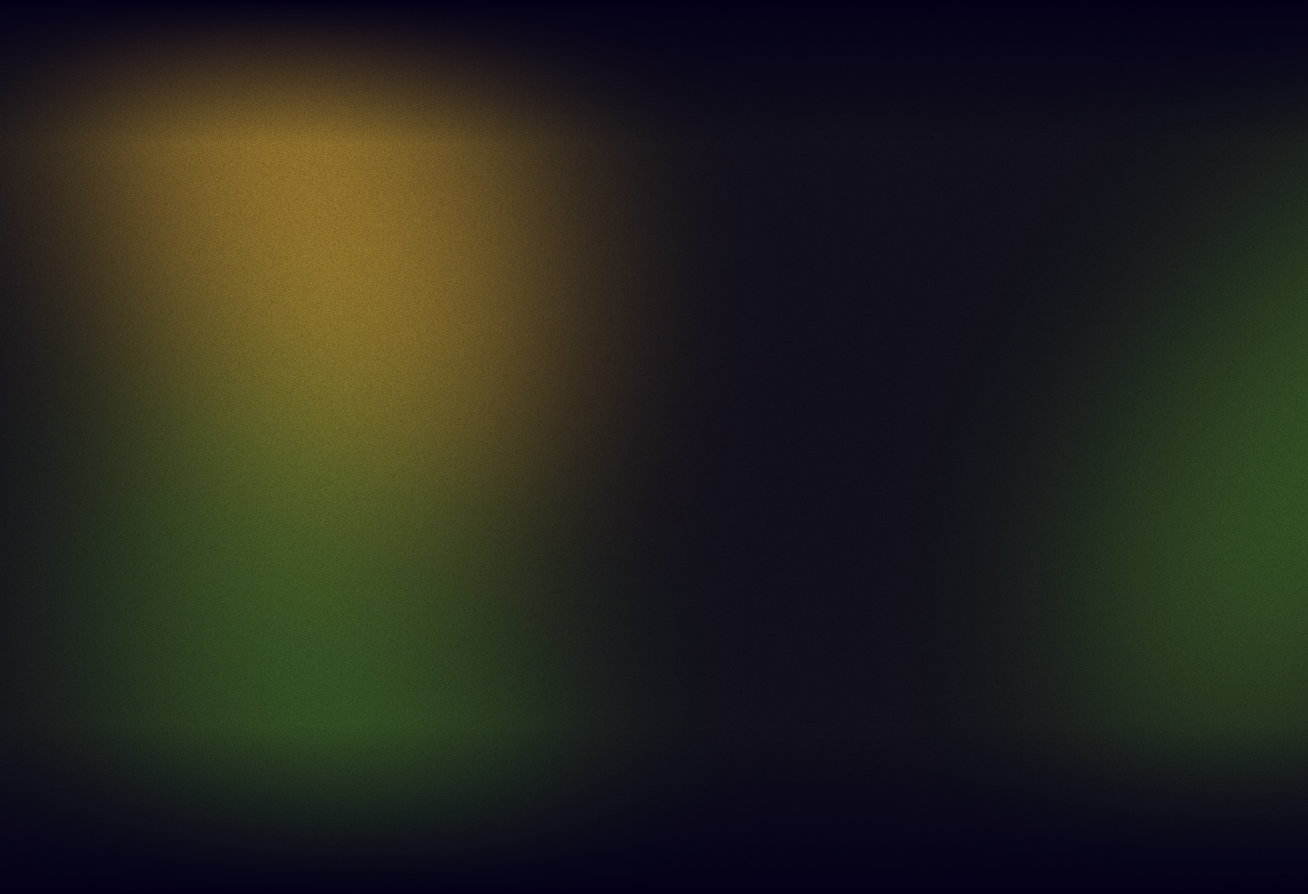
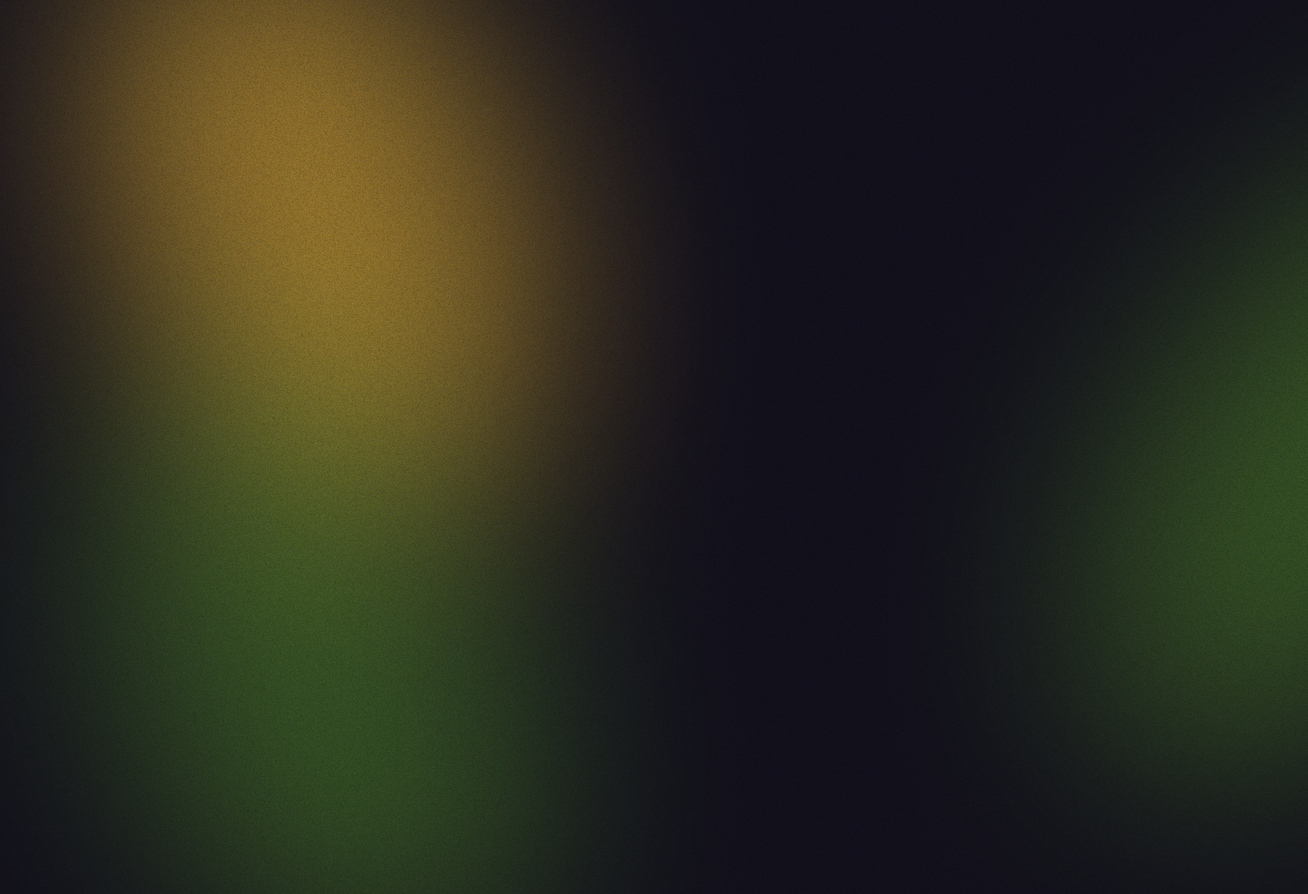
Pricing Complete and Testimonials started

Changed region(s): [[0.0625, 0.8743, 0.5, 1.0], [0.0, 0.0, 0.4688, 0.1561]]

diff --git a/src/components/Testimonials.vue b/src/components/Testimonials.vue
@@ -1,0 +1,57 @@
+<template>
+  <div class="d-flex flex-column testimonials-background justify-content-between">
+    <div class="rectangle-gradient-top"></div>
+    <div class="d-flex justify-content-start gap-1">
+      <h1 class="testimonials-text">Testimonials</h1>
+    </div>
+    <div class="rectangle-gradient-bottom"></div>
+  </div>
+</template>
+
+<script>
+export default {
+  name: 'TestimonialsComponent',
+}
+</script>
+
+<style>
+.testimonials-background {
+  background-image: url('../assets/TestimonialsBackground.png');
+  background-repeat: no-repeat;
+  width: 100%;
+  height: 1313px;
+}
+
+.testimonials-text {
+  font-weight: 800;
+  font-size: 187.859px;
+  line-height: 120%;
+  letter-spacing: 0.02em;
+  text-transform: capitalize;
+  background: linear-gradient(91.48deg, #f4b913 3.01%, #8df53a 96.12%);
+  -webkit-background-clip: text;
+  -webkit-text-fill-color: transparent;
+  background-clip: text;
+  transform: rotate(-90deg);
+}
+
+.rectangle-gradient-top {
+  background: linear-gradient(180deg, rgba(4, 0, 24, 0) 0%, #040018 100%);
+  transform: rotate(180deg);
+  width: 100%;
+  height: 214px;
+  z-index: 3;
+}
+
+.rectangle-gradient-bottom {
+  background: linear-gradient(180deg, rgba(4, 0, 24, 0) 0%, #040018 100%);
+  width: 100%;
+  height: 214px;
+  z-index: 3;
+}
+
+.testimonials-main-content {
+  padding-left: 215px;
+  z-index: 1;
+}
+</style>

diff --git a/src/App.vue b/src/App.vue
@@ -3,7 +3,8 @@
     <StartPage />
     <Landing />
     <PodPlatforms />
-    <PricingComponent />
+    <Pricing />
+    <Testimonials />
   </div>
 </template>
 
@@ -11,7 +12,8 @@
 import StartPage from "./components/StartPage.vue";
 import Landing from './components/Landing.vue';
 import PodPlatforms from "./components/PodPlatforms.vue";
-import PricingComponent from "./components/Pricing.vue";
+import Pricing from "./components/Pricing.vue";
+import Testimonials from "./components/Testimonials.vue";
 
 export default {
   name: 'App',
@@ -19,7 +21,8 @@ export default {
     StartPage,
     Landing,
     PodPlatforms,
-    PricingComponent,
+    Pricing,
+    Testimonials
   },
 }
 </script>

diff --git a/src/components/Pricing/PriceLabel.vue b/src/components/Pricing/PriceLabel.vue
@@ -104,6 +104,8 @@ export default {
 
 .zoom {
   transition: transform 0.2s;
+  filter: brightness(95%)
+  
 }
 
 .zoom:hover {
@@ -111,5 +113,6 @@ export default {
   -webkit-transform: scale(1.2); /* Safari 3-8 */
   transform: scale(1.2);
   border-radius: 20px;
+  filter: brightness(100%);
 }
 </style>
